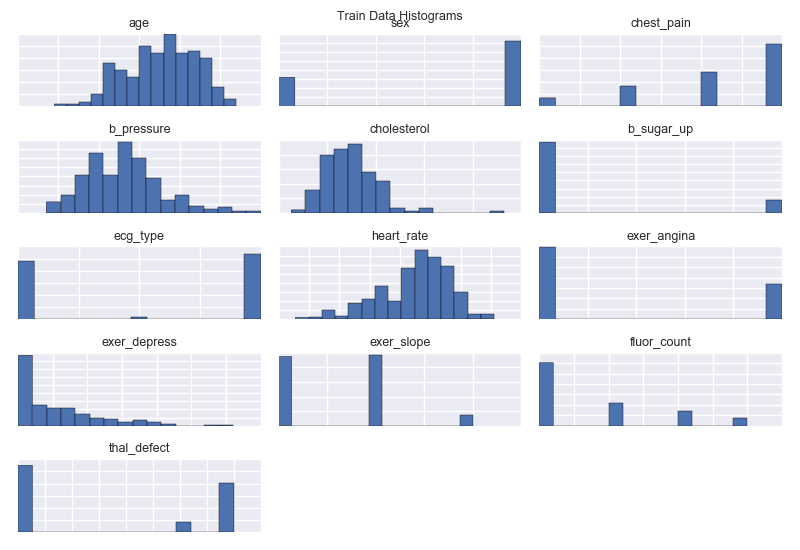
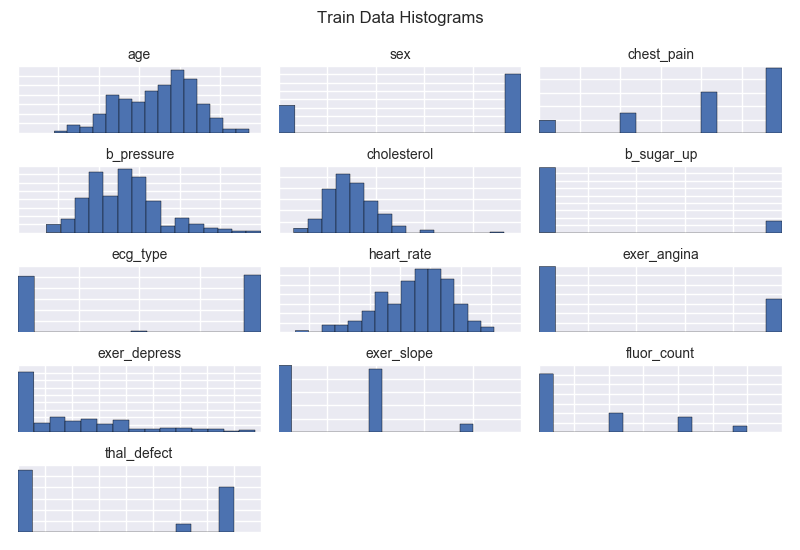
update plots

diff --git a/coronary_predict.py b/coronary_predict.py
@@ -109,7 +109,7 @@ def plot_hists(df, plotdir, label='x', ncols=3):
     "Plot histograms of data columns in one plot."
     plt.clf()
     f = plt.figure(1)
-    f.suptitle(label + " Data Histograms", fontsize=9)
+    f.suptitle(label + " Data Histograms", fontsize=12)
     vlist = list(df.columns)
     nrows = len(vlist) // ncols
     if len(vlist) % ncols > 0:
@@ -117,9 +117,10 @@ def plot_hists(df, plotdir, label='x', ncols=3):
     for i, var in enumerate(vlist):
         plt.subplot(nrows, ncols, i+1)
         plt.hist(df[var].values, bins=15)
-        plt.title(var, fontsize=9)
+        plt.title(var, fontsize=10)
         plt.tick_params(labelbottom='off', labelleft='off')
     plt.tight_layout()
+    plt.subplots_adjust(top=0.88)
     plt.savefig(plotdir + 'hist_coronary_' + label.lower() + '.png')
 
 def fit_predict(clf, train_X, train_y, test_X, test_y, label='x'):
